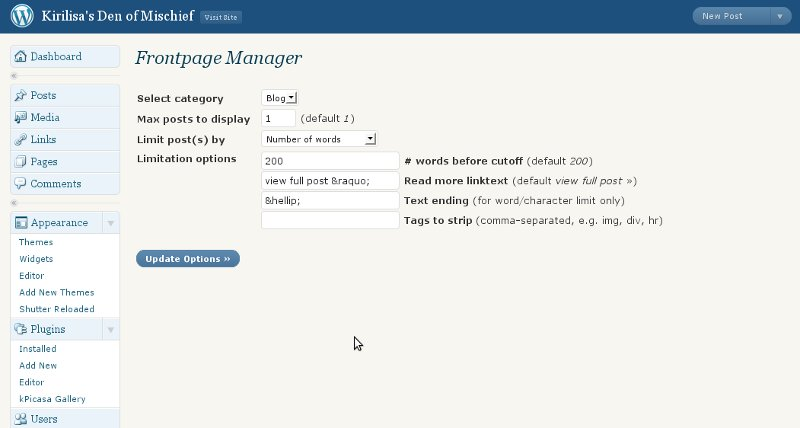
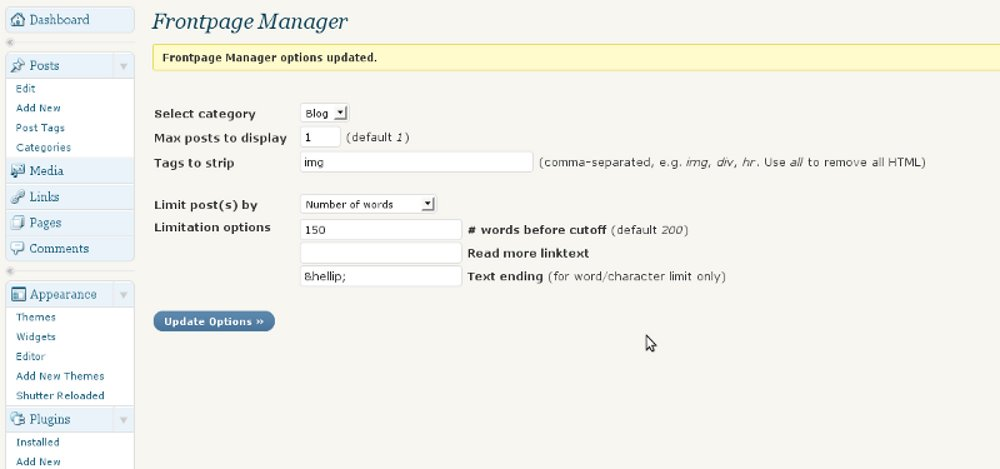
Updated to 0.91 beta
git-svn-id: https://plugins.svn.wordpress.org/frontpage-manager/trunk@179169 b8457f37-d9ea-0310-8a92-e5e31aec5664

diff --git a/fp-manager.php b/fp-manager.php
@@ -76,7 +76,7 @@ if (!class_exists("FPManager")) {
 	$number = intval(trim($_POST['fpm_post_number']));
 	$ending = utf8_encode(trim($_POST['fpm_post_ending']));
 	$linktext = utf8_encode(trim($_POST['fpm_post_linktext']));	
-	$striptags = utf8_encode(trim($_POST['fpm_striptags']));
+	$striptags = utf8_encode(trim(strtolower($_POST['fpm_striptags'])));
         
 	// default number
 	if ($number == '') {
@@ -85,9 +85,9 @@ if (!class_exists("FPManager")) {
 	  else if ($cuttype == 'word') $number = '200';
 	}
 
-	// default readmore
+	// default readmore @@@ removed for 0.91 beta
 	if ($linktext == '') {
-	  $linktext = utf8_encode("view full post &raquo;");
+	  //$linktext = utf8_encode("view full post &raquo;");
 	}
 
 	// default numposts
@@ -130,7 +130,8 @@ if (!class_exists("FPManager")) {
 
 	// strip the tags
 	foreach ($tags as $tag) {	  
-	  $content = preg_replace('/<\/?'.$tag.'( [^>]+)?>/', '', $content, -1, $cnt);
+	  if ($tag == 'all') $content = strip_tags($content, '<p>');
+	  else $content = preg_replace('/<\/?'.$tag.'( [^>]+)?>/', '', $content, -1, $cnt);
 	}
       }      
 
@@ -205,7 +206,7 @@ if (!class_exists("FPManager")) {
       $type = get_option('show_on_front');
       $category = get_option('fpm_post_category');
       $numposts = intval(get_option('fpm_post_numposts'));
-
+      
       if (is_front_page() && $type == 'posts') {
 	if (preg_match('/^[1-9]{1}[0-9]*$/', $category)) $wp_query->query_vars['cat'] = $category;
 	$wp_query->query_vars['showposts'] = $numposts;

diff --git a/admin_page.php b/admin_page.php
@@ -65,6 +65,14 @@ foreach ($cats as $cat) {
 </tr>
 
 <tr>
+<td><strong>Tags to strip </strong></td>
+<td><input type="text" size="30" name="fpm_striptags" value="<?php echo $striptags; ?>" /> 
+(comma-separated, e.g. <em>img, div, hr</em>. Use <em>all</em> to remove all HTML)</td>
+</tr>
+
+<tr><td colspan="2">&nbsp;</td></tr>
+
+<tr>
 <td><strong>Limit post(s) by</strong></td> 
 
 <td>
@@ -76,6 +84,7 @@ foreach ($cats as $cat) {
   </select>
 </td>
 </tr>
+
 </table>
 
 <table id="truncate" <?php echo $option_display; ?>>
@@ -87,13 +96,10 @@ foreach ($cats as $cat) {
   <span id="fpm_num"><?php echo $postnum_blurb; ?></span><br />
 
   <input name="fpm_post_linktext" type="text" value="<?php echo $input_linktext; ?>" /> 
-  <strong>Read more linktext</strong> (default <em>view full post &raquo;</em>)<br />
+  <strong>Read more linktext</strong> <br />
   
   <input name="fpm_post_ending" type="text" value="<?php echo $input_ending; ?>" /> 
   <strong>Text ending</strong> (for word/character limit only)<br />
-    
-  <input type="text" name="fpm_striptags" value="<?php echo $striptags; ?>" /> 
-  <strong>Tags to strip </strong> (comma-separated, e.g. img, div, hr)
 </td>
 </tr>
 </table>
